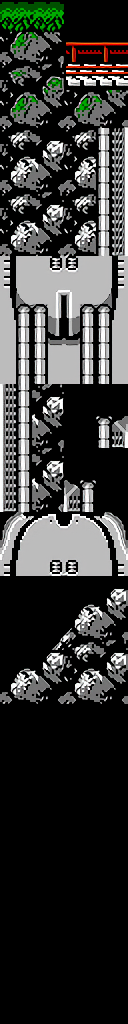
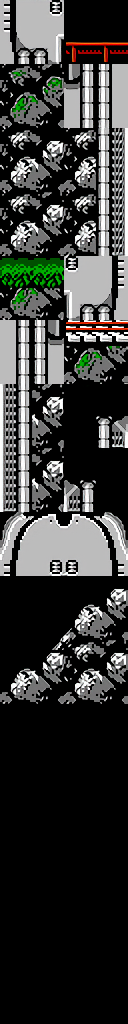
Level 3 colision fix

diff --git a/Contra2D/Contra2D/source/Game.cpp b/Contra2D/Contra2D/source/Game.cpp
@@ -8,7 +8,7 @@ void Game::init()
 	bPlay = true;
 	glClearColor(0.0f, 0.0f, 0.0f, 1.0f);
 	scene = new Scene;
-	scene->init(2); //MUST BE 0
+	scene->init(3); //MUST BE 0
 }
 
 void Game::loadLevel(int level)
